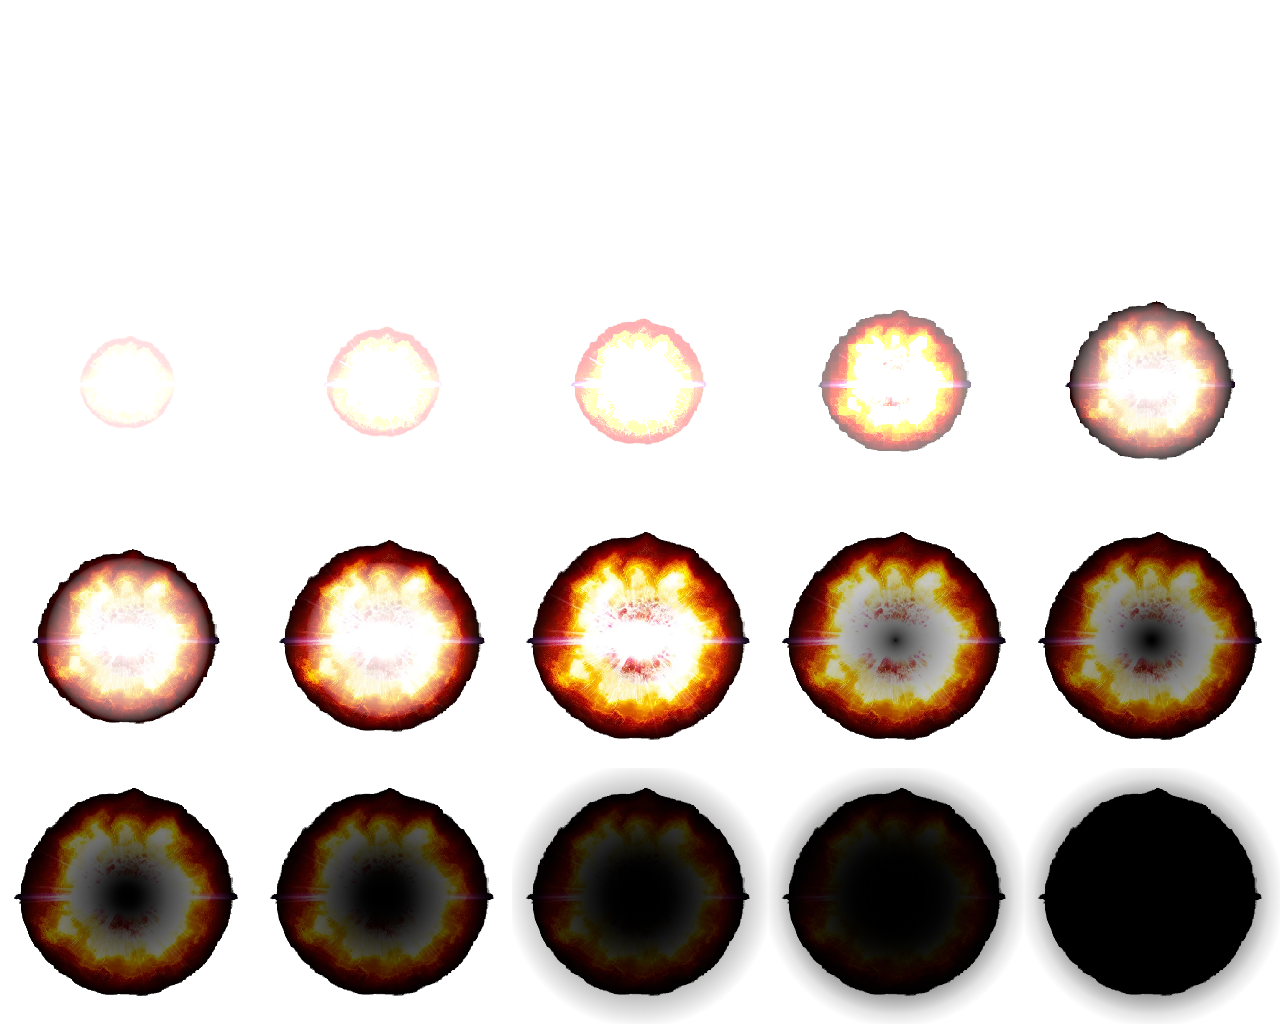
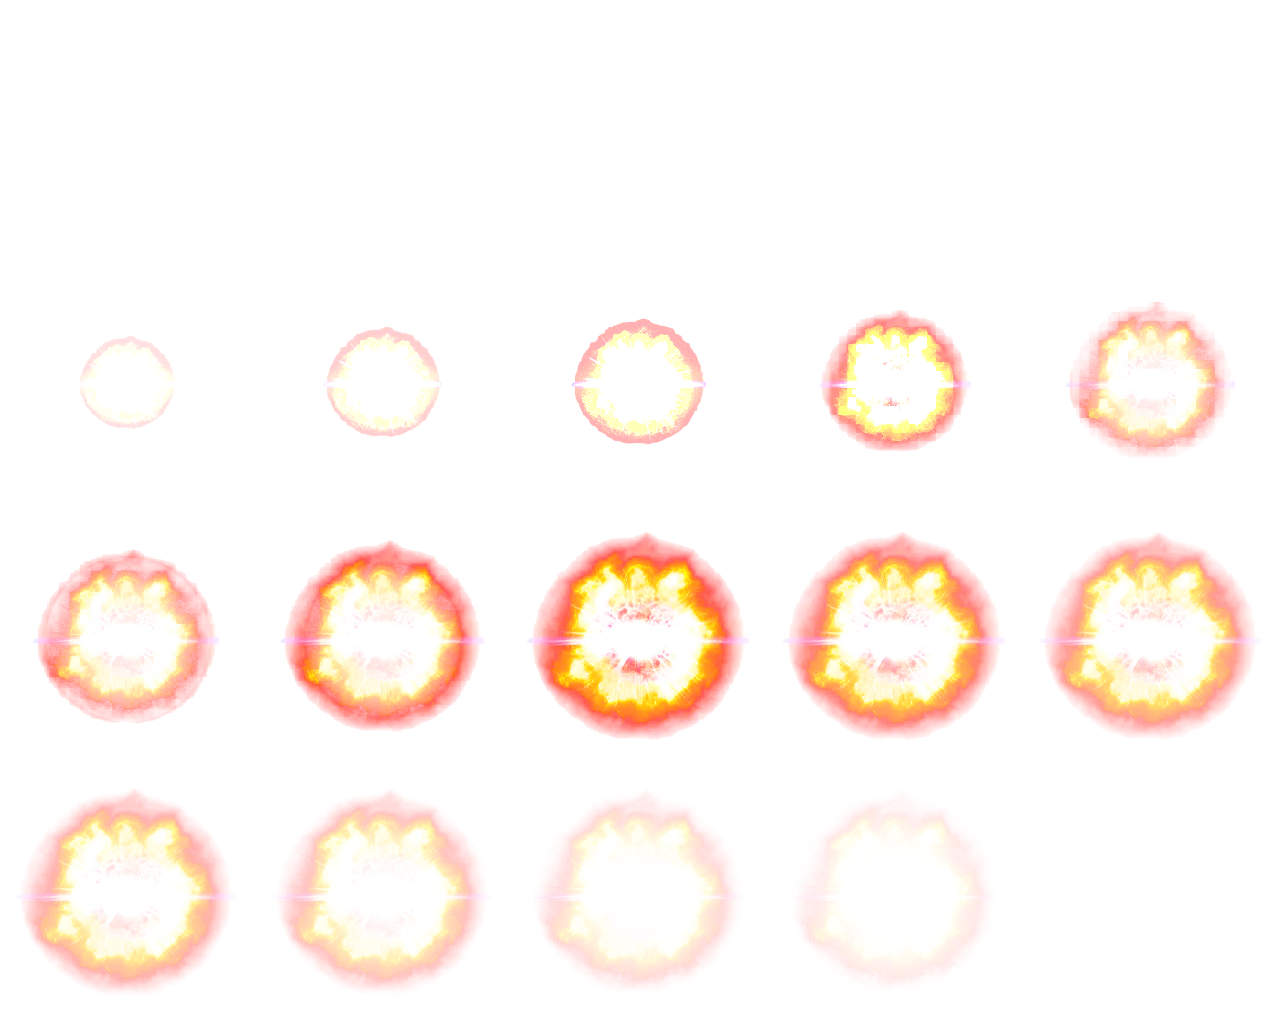
Game Menu fixes and explosion particle fix Fixed Game Menu Resizing and changed explosion particle to be transparent

diff --git a/util/PlayerVariables.cs b/util/PlayerVariables.cs
@@ -12,45 +12,45 @@ using Microgravity.util;
 [MemoryPackable]
 public partial class Stats
 {
-    // The player's current score
-    public int Score = 0;
+	// The player's current score
+	public int Score = 0;
 
-    // The current round the player is in
-    public int Round = 0;
+	// The current round the player is in
+	public int Round = 0;
 
-    // difficulty level scales all enemy power exponentially
-    public int DangerLevel {  get; set; } = 1;
-    public float LuckStat { get; set; } = 1;
+	// difficulty level scales all enemy power exponentially
+	public int DangerLevel {  get; set; } = 1;
+	public float LuckStat { get; set; } = 1;
 
-    //durrability stats stuff: armor and shield toughness are scaling stats reducing percentual damage scaling in a power curve | Math.Pow
-    public float MaxHealth { get; set; } = 100.0f;
-    public float CurrentHealth { get; set; } = 100.0f;
-    public float MaxShield { get; set; } = 100.0f;
-    public float CurrentShield { get; set; } = 100.0f;
-    public float ArmorToughness {  get; set; } = 1;
-    public float ShieldToughness { get; set; } = 1;
-    public int ShieldRegen {  get; set; } = 1; // regen is a flat increase in current shield that gets applied AT THE END OF EVERY FULL SECOND 
+	//durrability stats stuff: armor and shield toughness are scaling stats reducing percentual damage scaling in a power curve | Math.Pow
+	public float MaxHealth { get; set; } = 100.0f;
+	public float CurrentHealth { get; set; } = 100.0f;
+	public float MaxShield { get; set; } = 100.0f;
+	public float CurrentShield { get; set; } = 100.0f;
+	public float ArmorToughness {  get; set; } = 1;
+	public float ShieldToughness { get; set; } = 1;
+	public int ShieldRegen {  get; set; } = 1; // regen is a flat increase in current shield that gets applied AT THE END OF EVERY FULL SECOND 
 
-    //ship resources 
-    public int Ammo { get; set; } = 1;
-    public float Energy { get; set; } = 1;
-    public float MaxEnergy { get; set; } = 1;
-    public float Fuel { get; set; } = 1;
-    public float MaxFuel { get; set; } = 1;
-    public float EnergyGeneration {  get; set; } = 1;
+	//ship resources 
+	public int Ammo { get; set; } = 1;
+	public float Energy { get; set; } = 1;
+	public float MaxEnergy { get; set; } = 1;
+	public float Fuel { get; set; } = 1;
+	public float MaxFuel { get; set; } = 1;
+	public float EnergyGeneration {  get; set; } = 1;
 
-    //this should set max speed and acceleration (thrust against weight)
-    public float Thrust { get; set; } = 1; //max speed and (acceleration hindered by weight)
-    public float Weight { get; set; } = 1;
-    public float Control { get; set; } = 1;// how much the weight influences the acceleration, deceleraton and steering (0.0f - 1.0f)
+	//this should set max speed and acceleration (thrust against weight)
+	public float Thrust { get; set; } = 1; //max speed and (acceleration hindered by weight)
+	public float Weight { get; set; } = 1;
+	public float Control { get; set; } = 1;// how much the weight influences the acceleration, deceleraton and steering (0.0f - 1.0f)
 
-    //damage will be calculated through percentual damage increase and flat damage multiplication (modifier are being multiplied, mod > 1 --> increase; mod < 1 --> decrease)
-    public float DamageModif {  get; set; } = 1;
-    public float DamageBase { get; set; } = 1; //universial damage buff flat 
-    public float PhysDamage { get; set; } = 1;
-    public float PhysicalDmgMod {  get; set; } = 1; // percentage increased physical damage
-    public float EnergyDamage { get; set; } = 1;
-    public float EnergyDmgMod { get; set; } = 1; // percentage increased energy damage 
+	//damage will be calculated through percentual damage increase and flat damage multiplication (modifier are being multiplied, mod > 1 --> increase; mod < 1 --> decrease)
+	public float DamageModif {  get; set; } = 1;
+	public float DamageBase { get; set; } = 1; //universial damage buff flat 
+	public float PhysDamage { get; set; } = 1;
+	public float PhysicalDmgMod {  get; set; } = 1; // percentage increased physical damage
+	public float EnergyDamage { get; set; } = 1;
+	public float EnergyDmgMod { get; set; } = 1; // percentage increased energy damage 
 }
 
 /// <summary>
@@ -58,118 +58,118 @@ public partial class Stats
 /// </summary>
 public partial class PlayerVariables : Node
 {
-    public static PlayerVariables Instance { get; private set; }
-    public static Node Space { get; set; }
-    public static Stats Stats;
+	public static PlayerVariables Instance { get; private set; }
+	public static Node Space { get; set; }
+	public static Stats Stats;
    
-    // TODO: Serialise ShipParts, probably by storing IDs about them in Stats 
-    //this will store all the items the player has in their inventory
-    public List<ShipPart> PlayerActiveParts { get; set; } = []; // active parts that get activate an effect every time their cooldown is down or under a condition
-    public List<ShipPart> PlayerPassiveParts { get; set; } = []; // passive parts that only apply an effect on the time they are added to the ship
-    public List<ShipPart> PlayerCollectedParts { get; set; } = []; // basically the stash that the game uses to store all the loot at the end of a round (this gets reset every new round)
+	// TODO: Serialise ShipParts, probably by storing IDs about them in Stats 
+	//this will store all the items the player has in their inventory
+	public List<ShipPart> PlayerActiveParts { get; set; } = []; // active parts that get activate an effect every time their cooldown is down or under a condition
+	public List<ShipPart> PlayerPassiveParts { get; set; } = []; // passive parts that only apply an effect on the time they are added to the ship
+	public List<ShipPart> PlayerCollectedParts { get; set; } = []; // basically the stash that the game uses to store all the loot at the end of a round (this gets reset every new round)
 
-    public override void _Ready()
-    {
-        GD.Print($"New PlayerVariables object added to tree, setting Instance to {this}");
-        Instance = this;
-        Stats = new();
-    }
+	public override void _Ready()
+	{
+		GD.Print($"New PlayerVariables object added to tree, setting Instance to {this}");
+		Instance = this;
+		Stats = new();
+	}
 
-    /// <summary>
-    /// Restores the persistent player state for a fresh game run.
-    /// This is done by creating a new PlayerVariables object and deleting the old one
-    /// to make sure no state from the previous game carries over.
-    /// </summary>
-    public void ResetRun()
-    {
-        // make sure the name isn't PlayerVariables so there's no conflict with the new one
-        Instance.Name = "TO_BE_DELETED";
-    
-        // Add the new object to the tree, Instance will be set in _Ready()
-        GetNode("/root").AddChild(new PlayerVariables(){ Name = "PlayerVariables" });
+	/// <summary>
+	/// Restores the persistent player state for a fresh game run.
+	/// This is done by creating a new PlayerVariables object and deleting the old one
+	/// to make sure no state from the previous game carries over.
+	/// </summary>
+	public void ResetRun()
+	{
+		// make sure the name isn't PlayerVariables so there's no conflict with the new one
+		Instance.Name = "TO_BE_DELETED";
+	
+		// Add the new object to the tree, Instance will be set in _Ready()
+		GetNode("/root").AddChild(new PlayerVariables(){ Name = "PlayerVariables" });
 
-        this.QueueFree();
-    }
+		this.QueueFree();
+	}
 
-    /// <summary>
-    /// Load a saved Stats object and replace the current one.
-    /// </summary>
-    public static void LoadFromSave(int id)
-    {
-        Stats = DB.LoadGame(id);
-    }
-    
-    /// <summary>
-    /// Applies shield mitigation first, then armor mitigation to remaining hull damage.
-    /// </summary>
-    public void ApplyDamage(float amount)
-    {
-        if (amount <= 0.0f)
-            return;
+	/// <summary>
+	/// Load a saved Stats object and replace the current one.
+	/// </summary>
+	public static void LoadFromSave(int id)
+	{
+		Stats = DB.LoadGame(id);
+	}
+	
+	/// <summary>
+	/// Applies shield mitigation first, then armor mitigation to remaining hull damage.
+	/// </summary>
+	public void ApplyDamage(float amount)
+	{
+		if (amount <= 0.0f)
+			return;
 
-        float remainingDamage = amount;
-        float shieldToughness = Mathf.Max(0.1f, Stats.ShieldToughness);
-        float armorToughness = Mathf.Max(0.1f, Stats.ArmorToughness);
+		float remainingDamage = amount;
+		float shieldToughness = Mathf.Max(0.1f, Stats.ShieldToughness);
+		float armorToughness = Mathf.Max(0.1f, Stats.ArmorToughness);
 
-        if (Stats.CurrentShield > 0.0f)
-        {
-            float shieldDamage = remainingDamage / shieldToughness;
-            float absorbedShield = Mathf.Min(Stats.CurrentShield, shieldDamage);
-            Stats.CurrentShield -= absorbedShield;
-            remainingDamage -= absorbedShield * shieldToughness;
-        }
+		if (Stats.CurrentShield > 0.0f)
+		{
+			float shieldDamage = remainingDamage / shieldToughness;
+			float absorbedShield = Mathf.Min(Stats.CurrentShield, shieldDamage);
+			Stats.CurrentShield -= absorbedShield;
+			remainingDamage -= absorbedShield * shieldToughness;
+		}
 
-        if (remainingDamage > 0.0f)
-            Stats.CurrentHealth = Mathf.Clamp(Stats.CurrentHealth - remainingDamage / armorToughness, 0.0f, Stats.MaxHealth);
-    }
+		if (remainingDamage > 0.0f)
+			Stats.CurrentHealth = Mathf.Clamp(Stats.CurrentHealth - remainingDamage / armorToughness, 0.0f, Stats.MaxHealth);
+	}
 
-    //changing difficulty or setting difficult easily (for settings and items)
-    public void ChangeDifficulty(int change, bool setToValue)
-    {
-        if (setToValue)
-        {
-            Stats.DangerLevel = change;
-        }
-        else
-        {
-            Stats.DangerLevel += change;
-        }
-    }
+	//changing difficulty or setting difficult easily (for settings and items)
+	public void ChangeDifficulty(int change, bool setToValue)
+	{
+		if (setToValue)
+		{
+			Stats.DangerLevel = change;
+		}
+		else
+		{
+			Stats.DangerLevel += change;
+		}
+	}
 
-    //overload to more easily increase difficulty
-    public void ChangeDifficulty(int change)
-    {
-        Stats.DangerLevel += change;
-    }
+	//overload to more easily increase difficulty
+	public void ChangeDifficulty(int change)
+	{
+		Stats.DangerLevel += change;
+	}
 
-    // --------------------- managing the ship parts attatched and not attatched and activae and passive ---------------------
+	// --------------------- managing the ship parts attatched and not attatched and activae and passive ---------------------
 
-    //adding a part to the ship
-    public void AddPartToShip(ShipPart part)    
-    {
-        if(part.isActive)
-        {
-            PlayerActiveParts.Add(part);
-        }
-        if(!part.isActive)
-        {
-            PlayerPassiveParts.Add(part);
-            part.changeStats(true); //adds the part's stats to the player's stats
-        }
-        PlayerCollectedParts.Remove(part);
-        //GD.Print($"Part moved!! moved {part} from collection to ship");//debug
-    }
+	//adding a part to the ship
+	public void AddPartToShip(ShipPart part)    
+	{
+		if(part.isActive)
+		{
+			PlayerActiveParts.Add(part);
+		}
+		if(!part.isActive)
+		{
+			PlayerPassiveParts.Add(part);
+			part.changeStats(true); //adds the part's stats to the player's stats
+		}
+		PlayerCollectedParts.Remove(part);
+		//GD.Print($"Part moved!! moved {part} from collection to ship");//debug
+	}
 
-    public void RemovePartFromShip(ShipPart part)
-    {
-        if (part.isActive)
-        {
-            PlayerActiveParts.Remove(part);
-        }
-        if (!part.isActive)
-        {
-            PlayerPassiveParts.Remove(part);
-            part.changeStats(false); //subtracts the part's stats from the player stats
+	public void RemovePartFromShip(ShipPart part)
+	{
+		if (part.isActive)
+		{
+			PlayerActiveParts.Remove(part);
+		}
+		if (!part.isActive)
+		{
+			PlayerPassiveParts.Remove(part);
+			part.changeStats(false); //subtracts the part's stats from the player stats
         }
         PlayerCollectedParts.Add(part);
         //GD.Print($"Part moved!! moved {part} from ship to collection "); //debug
@@ -183,7 +183,7 @@ public partial class PlayerVariables : Node
         array = null;
     }
 
-    //if there's a DebugMultitool then I want it to test the other methods too just because I'm not making another testing scenario ^~^
+	//if there's a DebugMultitool then I want it to test the other methods too just because I'm not making another testing scenario ^~^
     private void CheckForDebugItem(ShipPart[] parts)
     {
         foreach(ShipPart part in parts)

diff --git a/scenes/ui/GameMenu.cs b/scenes/ui/GameMenu.cs
@@ -1,0 +1,41 @@
+using Godot;
+using System;
+
+public partial class GameMenu : HBoxContainer
+{
+	private Node _soundManager;
+	public override void _Ready()
+	{
+		_soundManager = GetNode("/root/SoundManager");
+		GetNode<TextureButton>("VBoxContainerRight/TextureRect/SettingsButton").Pressed += () => {
+			_soundManager.Call("PlaySound", 0, 0);
+
+			SettingsScreen settings = (SettingsScreen)ResourceLoader.Load<PackedScene>("res://scenes/ui/SettingsScreen.tscn").Instantiate();
+			settings.Close += () => Visible = true; // restore visibility when settings close
+			GetNode<Node>("..").AddChild(settings);
+			Visible = false; // make this invisible
+		};
+		GetNode<TextureButton>("VBoxContainerRight/TextureRect/HighScoresButton").Pressed += () => {
+			_soundManager.Call("PlaySound", 0, 0);
+
+			HighScoresScreen settings = (HighScoresScreen)ResourceLoader.Load<PackedScene>("res://scenes/ui/HighScoresScreen.tscn").Instantiate();
+			settings.Close += () => Visible = true;
+			GetNode<Node>("..").AddChild(settings);
+			Visible = false;
+		};
+		GetNode<TextureButton>("VBoxContainerRight/TextureRect/QuitButton").Pressed += () => {
+			_soundManager.Call("PlaySound", 0, 0);
+			GetTree().Quit();
+		};
+		GetNode<TextureButton>("VBoxContainerLeft/BackButton").Pressed += () => {
+			_soundManager.Call("PlaySound", 0, 0);
+			GetTree().ChangeSceneToFile("res://scenes/ui/TitleScreen.tscn");
+		};
+	}
+
+
+	public override void _Process(double delta)
+	{
+
+	}
+}
